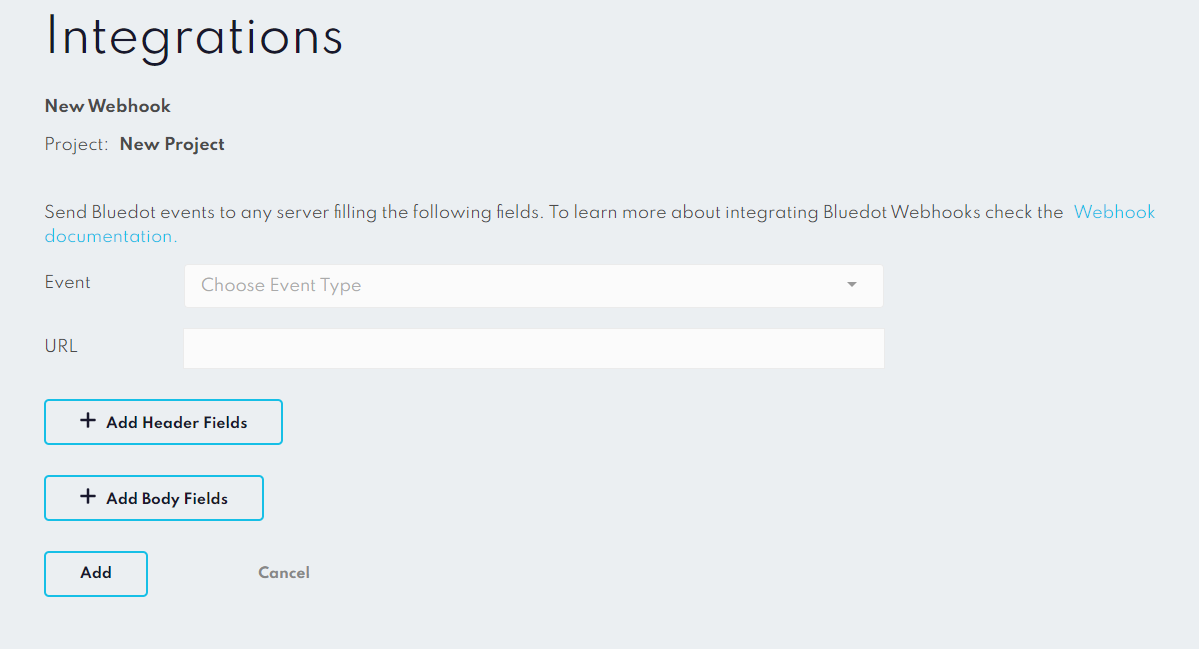
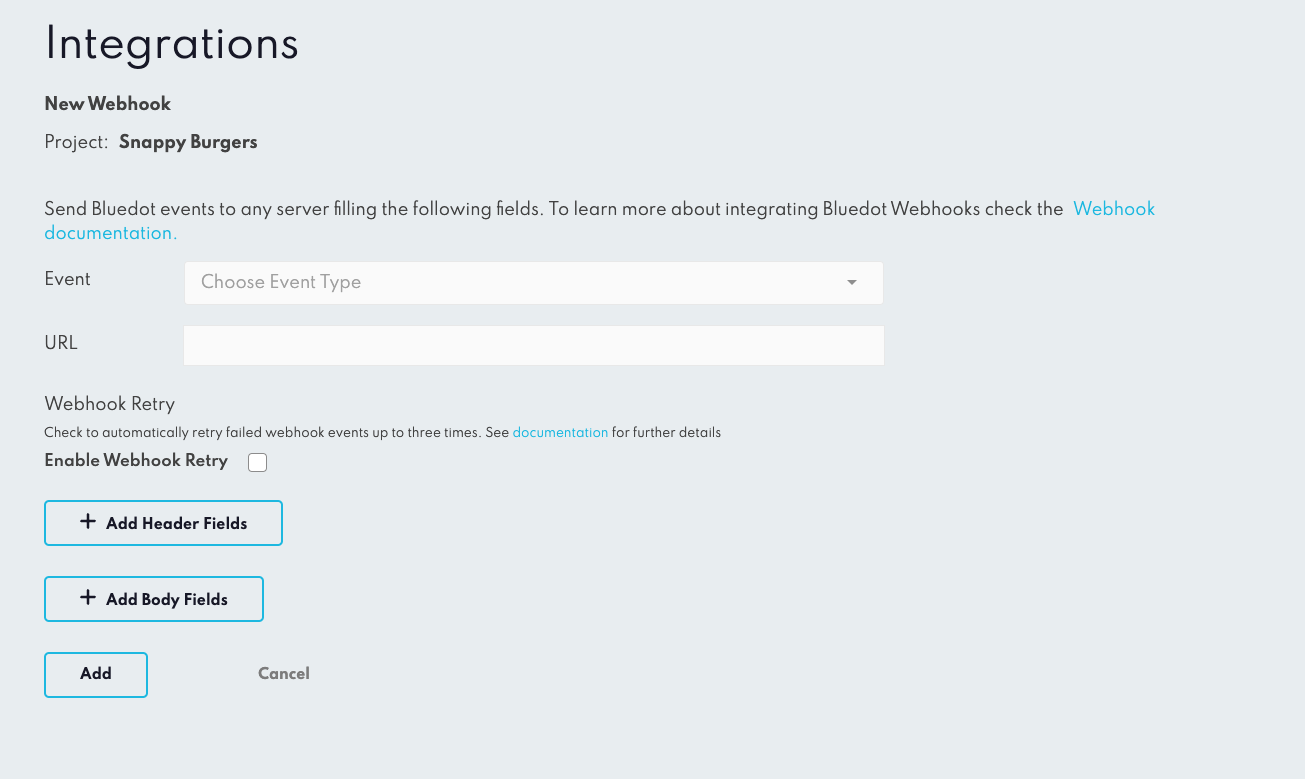
Added webhooks retry documentation

diff --git a/docusaurus.config.js b/docusaurus.config.js
@@ -396,6 +396,10 @@ const config = {
             {
               from: '/canvas/what-are-zone-settings/what-is-custom-data/',
               to: '/Canvas/What is Zone custom data'
+            },
+            {
+              from: '/webhooks/',
+              to: '/Webhooks/Overview'
             }
           ]
         }

diff --git a/sidebars.js b/sidebars.js
@@ -292,6 +292,7 @@ const sidebars = {
         "Webhooks/Tempo",
         "Webhooks/Wave",
         "Webhooks/Hello order",
+        "Webhooks/Webhooks retry"
       ],
     },
     {

diff --git a/docs/Webhooks/Webhooks retry.md b/docs/Webhooks/Webhooks retry.md
@@ -1,0 +1,29 @@
+---
+pagination_next: null
+---
+
+Webhooks Retry
+========================
+
+The Webhooks Retry Mechanism is an optional feature that enhances the reliability of your webhook events. By default, this feature is disabled, but it can be manually enabled by the user.
+
+Enabling the Retry Mechanism
+----------------------------
+
+To enable the Webhooks Retry Mechanism, navigate to the Webhooks section on Canvas. Here, you will find a dedicated section for enabling the retry mechanism. Check the box in this section to activate the retry mechanism.
+
+![](../assets/webhooks-retry.png)
+
+How Does the Retry Mechanism Work?
+-----------------------------------
+
+When the retry mechanism is enabled, all webhooks that fail to deliver will be resent according to an exponential retry schedule. This means that the system will attempt to resend the webhook 3 times. The delay between each attempt increases exponentially, following the formula 2^n.
+
+To put it simply, the first retry will happen almost immediately. If this fails, the second retry will occur after 2 seconds. If the second attempt also fails, the third and final retry will be made after 4 seconds. This makes for a total of roughly 7 seconds for the entire retry process.
+
+Deduplication of Webhook Events
+-------------------------------
+
+To help you manage your webhook events more effectively, each webhook event is assigned a unique deduplication ID when the Webhook Retry feature is enabled. This allows you to identify if an event has been sent before, helping to avoid processing the same event multiple times.
+
+When the retry mechanism is enabled, the webhook payloads will include a `webhookUniqueId` property. You can use this unique ID to identify duplicate events and ensure each event is processed only once.

diff --git a/docs/Webhooks/Overview.md b/docs/Webhooks/Overview.md
@@ -55,7 +55,10 @@ To set up **Webhooks**, login to Canvas and head to the **Integrations** section
 | Header fields (optional) | Custom headers are sent along with the webhook request. Keys must not contain spaces.  The dynamic headers (available only for standard webhooks) will require a fixed property key; only the value can be programmatically set. By adding dynamic headers to the Webhook, you’re setting up a pattern that will be picked up and populated from the webhook request body . It can be any property name that is present in the webhook request body. For example, to set a custom value included in the event, you can use `eventMetaData.key_name` for a Geo-trigger event or `customEventMetaData.key_name` for a Tempo or Wave event |
 | Body fields (optional) | Custom fields and values which will be added to the body of the webhook when sent. Keys must not contain spaces |
 
-
+:::info
+**Webhooks Retry Mechanism**: 
+The Webhooks Retry Mechanism is an optional feature that resends failed webhook events automatically. Learn how to enable and use this feature [here](./Webhooks%20retry.md).
+:::
 
 5\. Select Add
 
